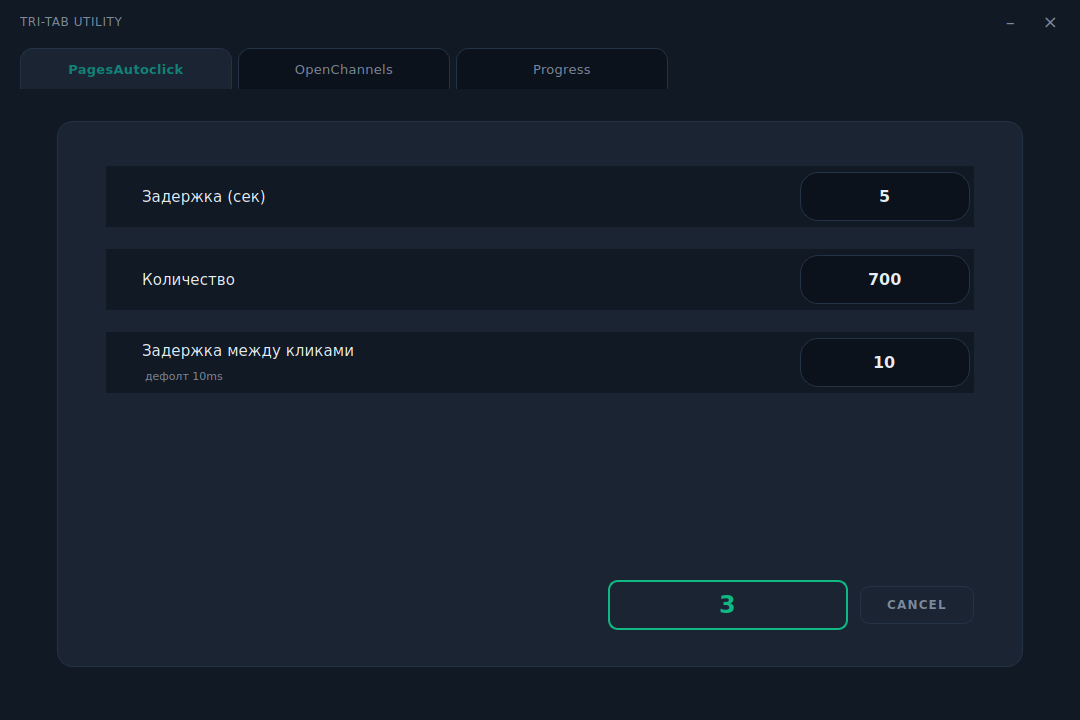
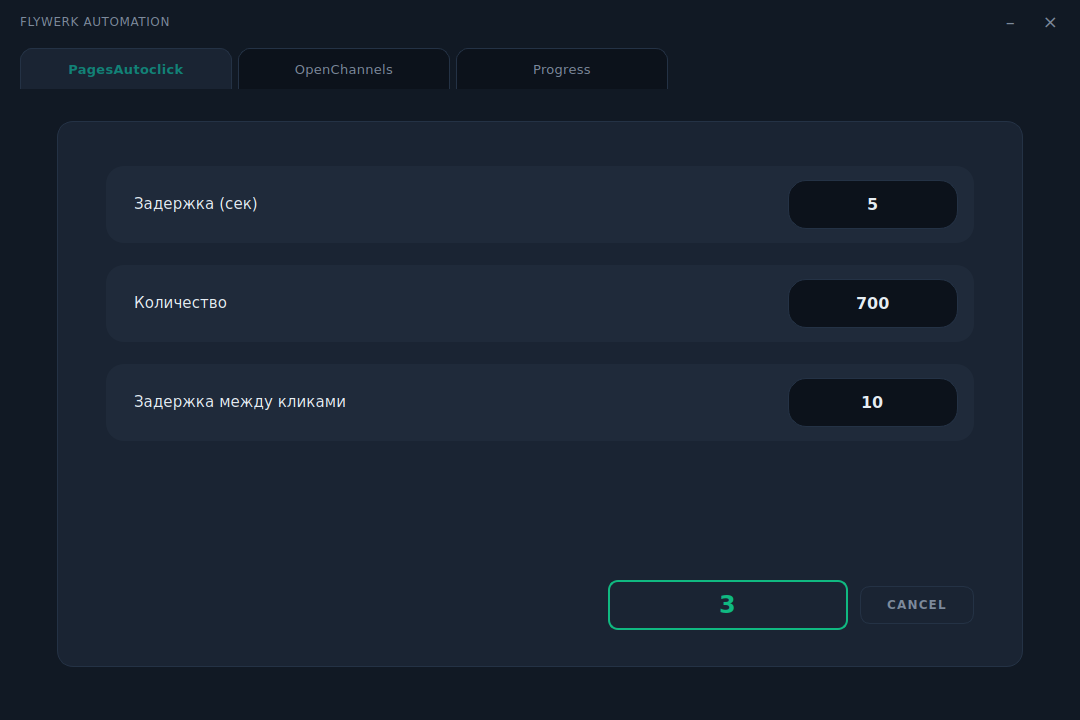
Update program interface with rounded fields and new title
Refactor QWidget to QFrame for rounded backgrounds, remove default hints, and rebalance layout for the Progress tab.

Replit-Commit-Author: Agent
Replit-Commit-Session-Id: fa9c77c0-7a4c-45c5-8648-3131b077b8af
Replit-Commit-Checkpoint-Type: full_checkpoint
Replit-Commit-Event-Id: 895d144b-1ad6-4f76-b301-046176ec4b1a
Replit-Helium-Checkpoint-Created: true

diff --git a/desktop-app/main.py b/desktop-app/main.py
@@ -211,6 +211,16 @@ QPushButton#AddButton {{
 }}
 
 /* Cards */
+QFrame#FieldRow {{
+    background-color: #1f2a3a;
+    border: none;
+    border-radius: 18px;
+}}
+QFrame#FieldRow > QLabel {{
+    background: transparent;
+    border: none;
+}}
+
 QFrame#Card {{
     background-color: {BG_ELEVATED};
     border: 1px solid {BORDER};
@@ -315,27 +325,18 @@ QPushButton#PickerDot:checked {{
 
 def make_field_row(label_text: str, default_value: str, hint: str | None = None,
                    numeric: bool = True) -> tuple[QWidget, QLineEdit]:
-    """A label on the left, hint underneath, input on the right."""
-    row = QWidget()
+    """A label on the left, input on the right, on a rounded background row."""
+    row = QFrame()
+    row.setObjectName("FieldRow")
+    row.setFrameShape(QFrame.Shape.NoFrame)
     row.setSizePolicy(QSizePolicy.Policy.Expanding, QSizePolicy.Policy.Fixed)
     h = QHBoxLayout(row)
-    h.setContentsMargins(36, 6, 4, 6)
+    h.setContentsMargins(28, 14, 16, 14)
     h.setSpacing(20)
-
-    label_box = QVBoxLayout()
-    label_box.setSpacing(0)
-    label_box.setContentsMargins(0, 0, 0, 0)
 
     label = QLabel(label_text)
     label.setObjectName("FieldLabel")
-    label_box.addWidget(label)
-
-    if hint:
-        hint_label = QLabel(hint)
-        hint_label.setObjectName("FieldHint")
-        label_box.addWidget(hint_label)
-
-    h.addLayout(label_box, 1)
+    h.addWidget(label, 1, Qt.AlignmentFlag.AlignVCenter)
 
     edit = QLineEdit(default_value)
     edit.setObjectName("NumericInput")
@@ -366,9 +367,7 @@ class AutoclickTab(QWidget):
 
         delay_row, self.delay_input = make_field_row("Задержка (сек)", "5")
         count_row, self.count_input = make_field_row("Количество", "700")
-        gap_row, self.gap_input = make_field_row(
-            "Задержка между кликами", "10", hint="дефолт 10ms"
-        )
+        gap_row, self.gap_input = make_field_row("Задержка между кликами", "10")
 
         card_layout.addWidget(delay_row)
         card_layout.addWidget(count_row)
@@ -413,9 +412,7 @@ class OpenChannelsTab(QWidget):
 
         delay_row, self.delay_input = make_field_row("Задержка (сек)", "7")
         count_row, self.count_input = make_field_row("Количество", "100")
-        gap_row, self.gap_input = make_field_row(
-            "Задержка между кликами", "50", hint="дефолт 50ms"
-        )
+        gap_row, self.gap_input = make_field_row("Задержка между кликами", "50")
 
         card_layout.addWidget(delay_row)
         card_layout.addWidget(count_row)
@@ -529,9 +526,9 @@ class ProgressTab(QWidget):
 
         left.addStretch(1)
 
-        # Right column: input area
+        # Right column: input area (equal spacing, mirrors left column rhythm)
         right = QVBoxLayout()
-        right.setSpacing(20)
+        right.setSpacing(14)
 
         right.addWidget(self._build_input_block("Добавить", "", numeric=True,
                                                 button_text="Добавить",
@@ -540,10 +537,9 @@ class ProgressTab(QWidget):
                                                 button_text=None,
                                                 attr_name="remaining_input",
                                                 readonly=True))
+        right.addWidget(self._build_total_block())
 
         right.addStretch(1)
-
-        right.addWidget(self._build_total_block())
 
         cancel_row = QHBoxLayout()
         cancel_row.addStretch(1)
@@ -583,7 +579,7 @@ class ProgressTab(QWidget):
         block.setObjectName("Card")
         block.setStyleSheet(f"QFrame#Card {{ background-color: #16202d; }}")
         v = QVBoxLayout(block)
-        v.setContentsMargins(22, 16, 22, 18)
+        v.setContentsMargins(20, 14, 20, 16)
         v.setSpacing(10)
 
         small = QLabel(label_text)
@@ -618,11 +614,10 @@ class ProgressTab(QWidget):
         block.setObjectName("Card")
         block.setStyleSheet(f"QFrame#Card {{ background-color: #16202d; }}")
         v = QVBoxLayout(block)
-        v.setContentsMargins(22, 16, 22, 20)
-        v.setSpacing(8)
+        v.setContentsMargins(20, 14, 20, 16)
+        v.setSpacing(10)
         small = QLabel("Цель")
         small.setObjectName("SmallLabel")
-        small.setAlignment(Qt.AlignmentFlag.AlignCenter)
         v.addWidget(small)
         amount = QLabel("1 800 000")
         amount.setObjectName("TotalAmount")
@@ -723,7 +718,7 @@ class MainWindow(QMainWindow):
         layout.setSpacing(0)
 
         # Title bar
-        self.title_bar = TitleBar(self, "TRI-TAB UTILITY")
+        self.title_bar = TitleBar(self, "FLYWERK AUTOMATION")
         layout.addWidget(self.title_bar)
 
         # Body container
